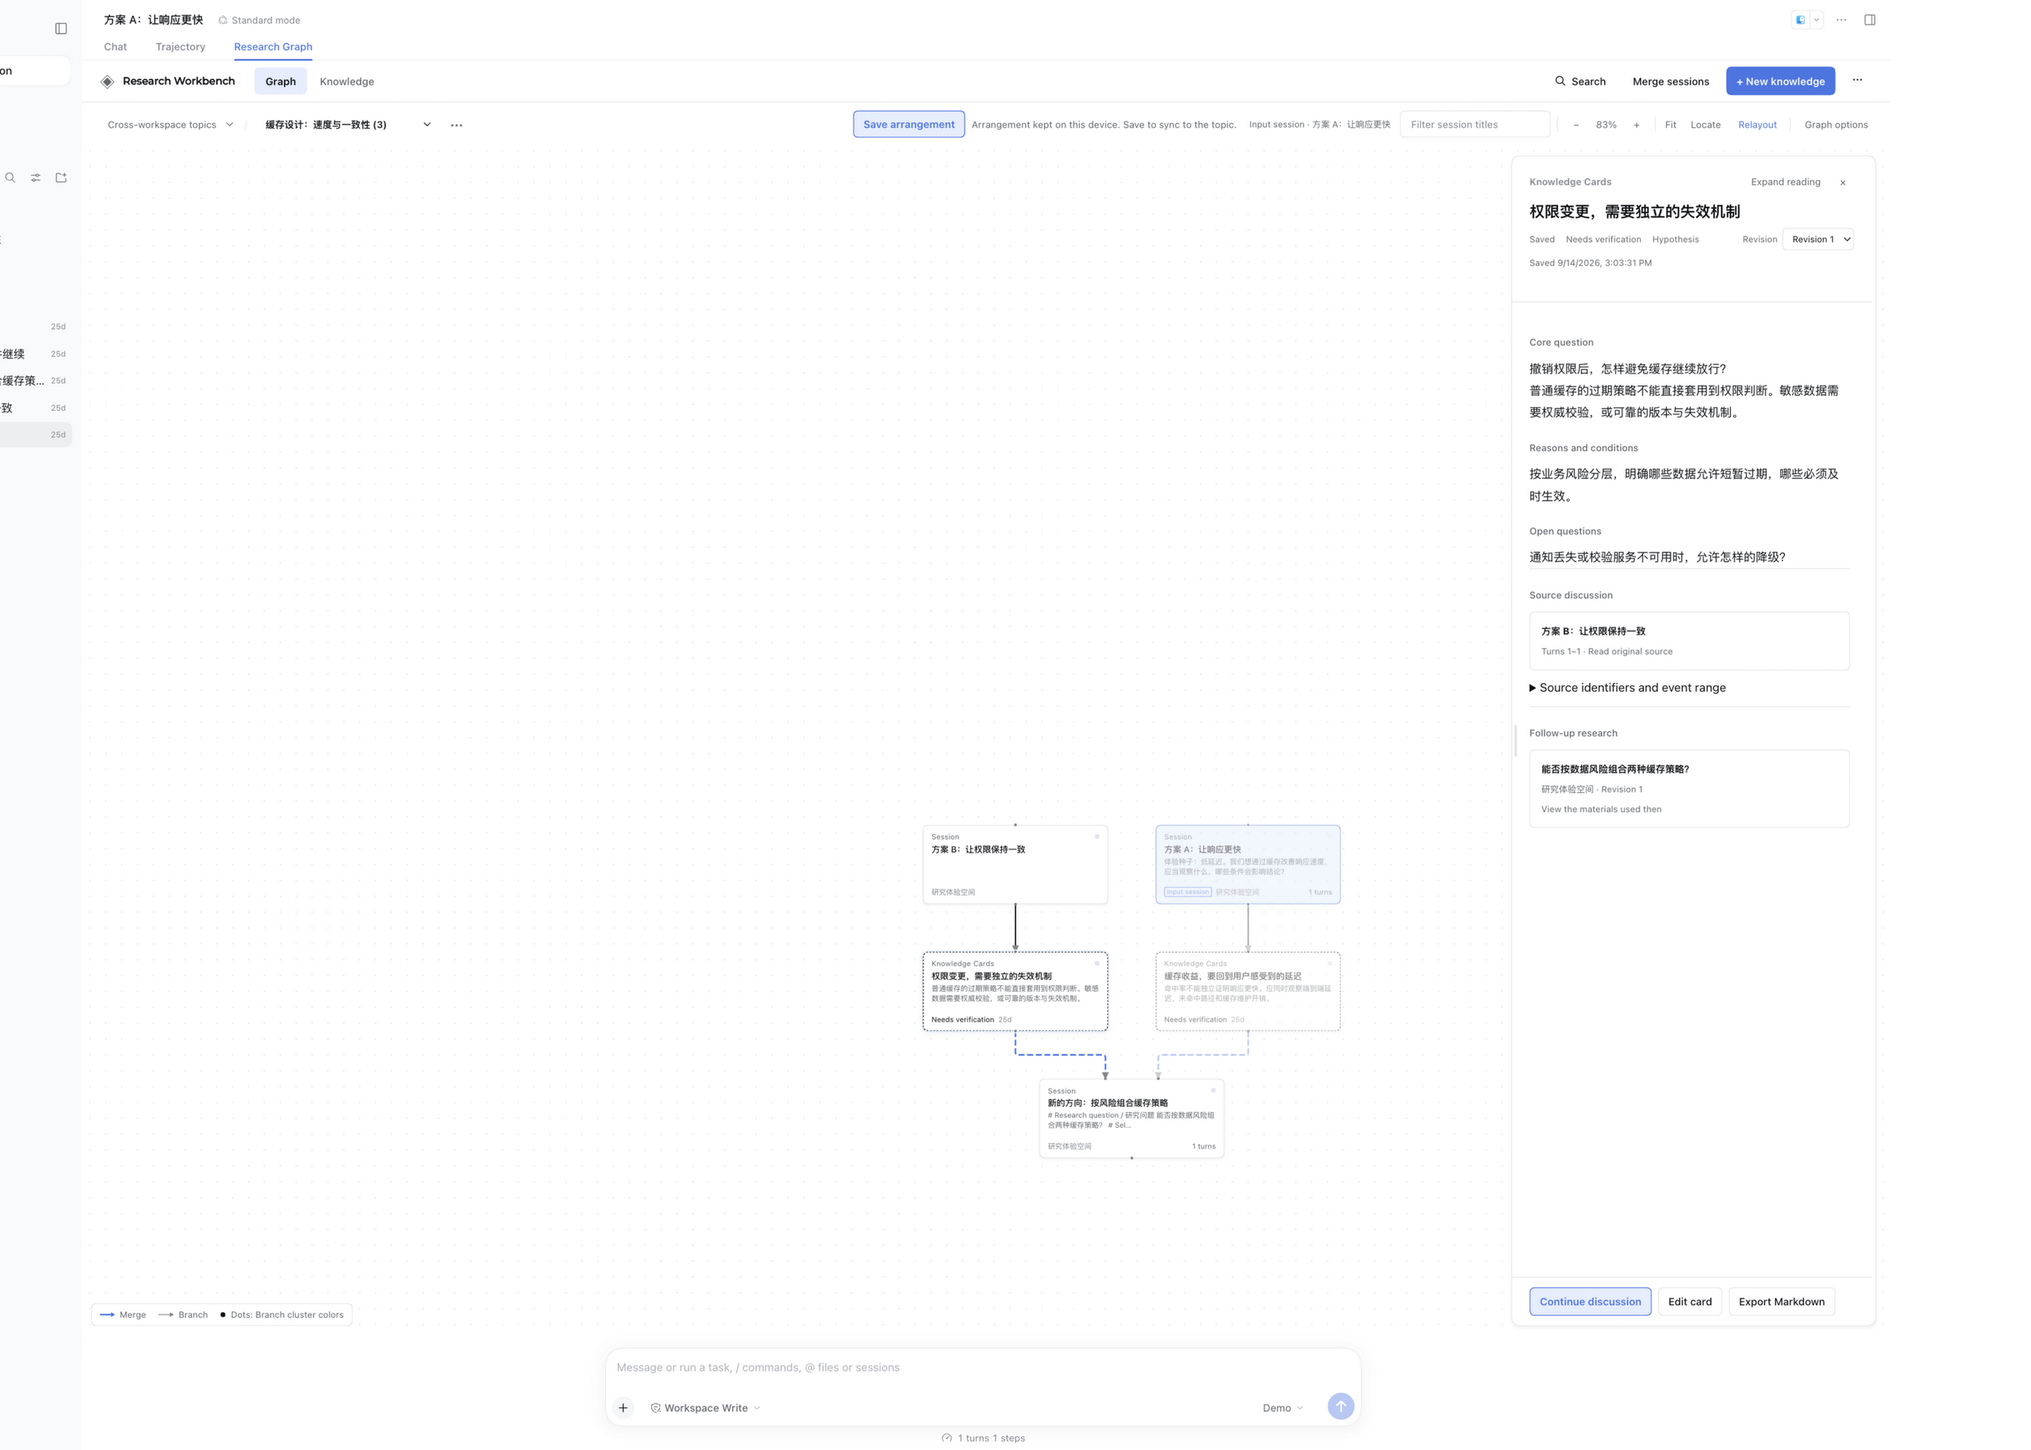
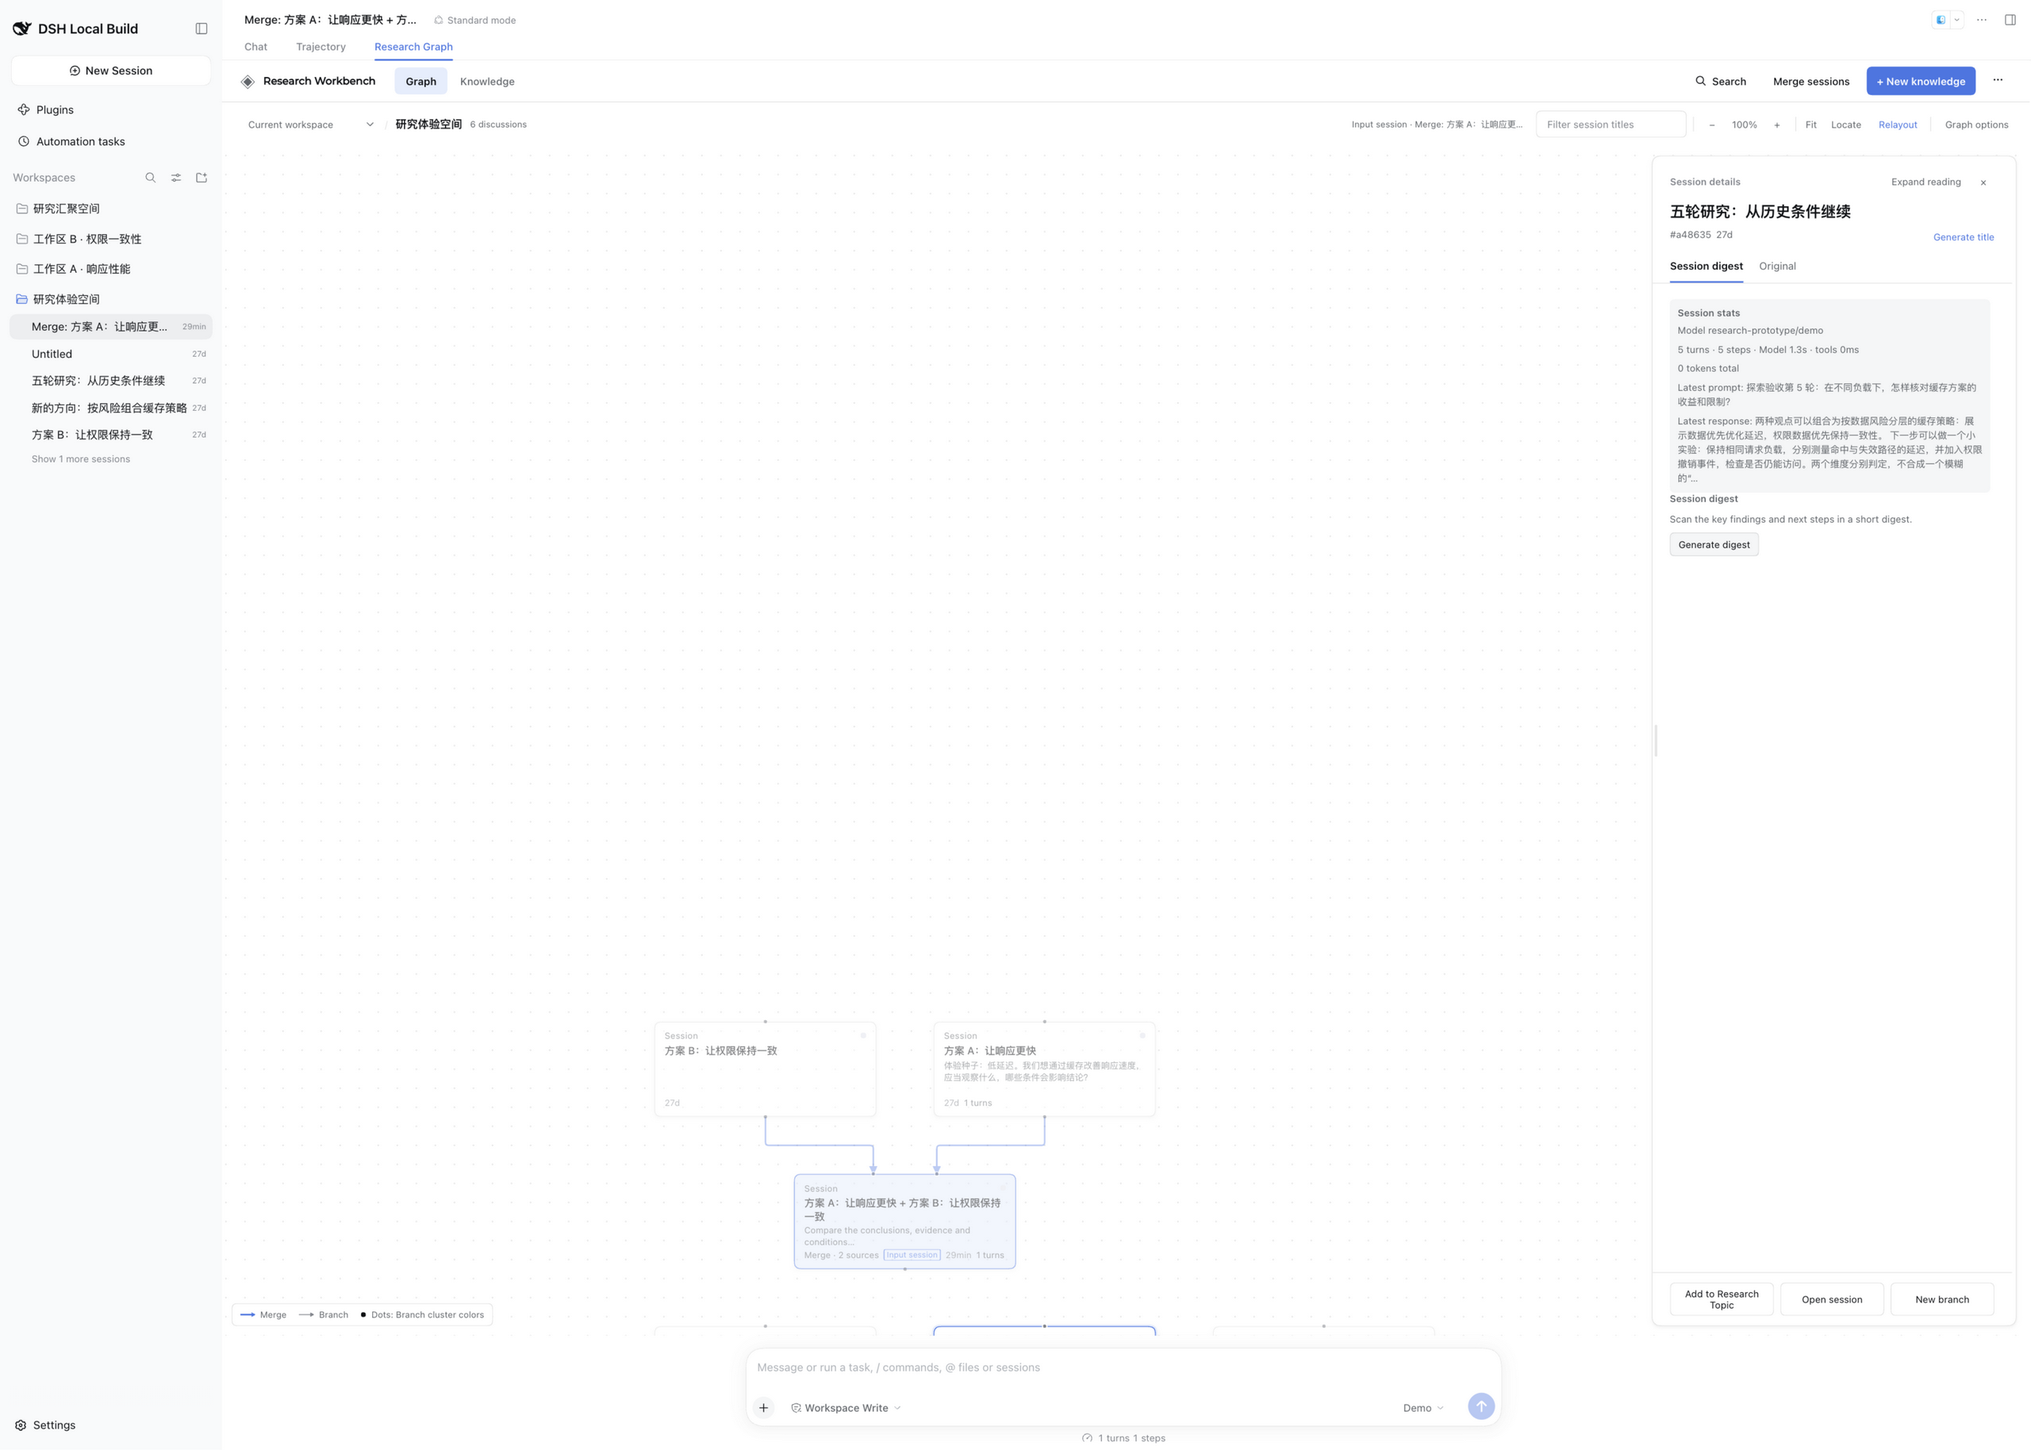
docs: prepare the 0.2.1-alpha.2.1 release notes and screenshot

diff --git a/docs/user-guide.md b/docs/user-guide.md
@@ -18,7 +18,7 @@ Detailed installation, research workflows, troubleshooting, and limits for DSH R
 Requires **DeepSeek Harness 0.2.1-alpha.2**, Node.js `^22.19.0 || >=24.0.0`, and `pnpm` on your `PATH`. Research Graph runs as a plugin inside DSH Web; check [Compatibility](#compatibility) before installing on another Host version. These commands assume `dsh` is on your `PATH`; see [Install](#install) for `npx` and source-checkout commands. Stop any running `dsh web` before installing.
 
 ```sh
-dsh plugin --profile web add @benz-ai-x/dsh-research-graph@0.2.1-alpha.2
+dsh plugin --profile web add @benz-ai-x/dsh-research-graph@0.2.1-alpha.2.1
 dsh web
 ```
 
@@ -28,7 +28,7 @@ Open the one-time authenticated URL printed by the command; do not share its tok
 2. Select a node, read **Original**, and choose **Save as knowledge** on a completed turn.
 3. Open the saved card in **Knowledge**, inspect its sources, and choose **Continue discussion** to preview the materials for another question.
 
-Current plugin **0.2.1-alpha.2** uses npm tag `next`; the pinned command avoids installing an incompatible older package. See [Install and upgrade](#install) for local archives and migration from the previous package name.
+Current plugin **0.2.1-alpha.2.1** uses npm tag `next`; the pinned command avoids installing an incompatible older package. See [Install and upgrade](#install) for local archives and migration from the previous package name.
 
 ## Research workflow
 
@@ -59,9 +59,9 @@ Source discovery and tool execution come from your selected DSH environment. Res
 
 | Package release | DeepSeek Harness | Node.js | Verification |
 |---|---|---|---|
-| `@benz-ai-x/dsh-research-graph@0.2.1-alpha.2` | `0.2.1-alpha.2` | `^22.19.0 \|\| >=24.0.0` | Real Host/Client types, integration tests and packed-profile runtime acceptance |
+| `@benz-ai-x/dsh-research-graph@0.2.1-alpha.2.1` | `0.2.1-alpha.2` | `^22.19.0 \|\| >=24.0.0` | Real Host/Client types, integration tests and packed-profile runtime acceptance |
 
-Current prerelease **0.2.1-alpha.2** targets **DSH 0.2.1-alpha.2**: a new DSH version, so per the release policy the plugin takes the full target version and every pinned `@deepseek-ai/dsh-*` dependency moves to `0.2.1-alpha.2`. This is a compatibility release: delegated tasks recorded as external executions (a new upstream concept with no local child Session) now report their native address as unavailable instead of passing an invalid open address, and a projection-read state addition (`migration-required`) is absorbed by the existing readiness guard. No research-data model, persistence schema, canvas, or Host service behavior changed. See the [release acceptance record](reviews/release-0.2.1-alpha.2.md) for official-package verification and known limitations.
+Current prerelease **0.2.1-alpha.2.1** targets **DSH 0.2.1-alpha.2**: a same-line revision, so the plugin version appends one revision digit and every pinned `@deepseek-ai/dsh-*` dependency stays at `0.2.1-alpha.2`. This is a feature-and-fix release: Session Merge can now choose its model from the Host catalog (workbench dialog and canvas quick entry, defaulting to the Host default route), and a regression where a browser-initiated merge failed at target renaming on DSH 0.2.x — leaving the created session without its instruction — is fixed by renaming through the session Remote. No research-data model, persistence schema, canvas geometry, or Host service behavior changed. See the [release acceptance record](reviews/release-0.2.1-alpha.2.1.md) for official-package verification and known limitations.
 
 In the DSH-aligned release line, the first plugin adaptation uses the full target DSH version. Further plugin releases for the same DSH prerelease append one positive revision number: plugin `0.1.5-rc.2.1` targets DSH `0.1.5-rc.2`, followed by plugin `0.1.5-rc.2.2`. Direct DSH dependencies retain the target DSH version. The previous package is `@benz-ai-x/dsh-client-ui-session-graph`; its tags and artifacts keep that name.
 
@@ -210,7 +210,7 @@ The [DSH plugin manager](https://github.com/deepseek-ai/deepseek-harness/blob/ds
 Install the published npm package into the `web` profile:
 
 ```sh
-dsh plugin --profile web add @benz-ai-x/dsh-research-graph@0.2.1-alpha.2
+dsh plugin --profile web add @benz-ai-x/dsh-research-graph@0.2.1-alpha.2.1
 ```
 
 Confirm that the resolved profile contains the bundle:
@@ -227,7 +227,7 @@ The product is now **DSH Research Graph · 研图**, and the repository is `benz
 
 ```sh
 dsh plugin --profile web remove @benz-ai-x/dsh-client-ui-session-graph
-dsh plugin --profile web add @benz-ai-x/dsh-research-graph@0.2.1-alpha.2
+dsh plugin --profile web add @benz-ai-x/dsh-research-graph@0.2.1-alpha.2.1
 dsh web
 ```
 
@@ -245,7 +245,7 @@ dsh plugin --profile web remove @benz-ai-x/dsh-research-graph
 
 Restart the target `web` profile after installation or removal. A running process does not watch its profile dependency list.
 
-Session, LLM, and browser runtime services remain owned by the selected dsh profile. The plugin declares its Typert protocol dependency explicitly, with the matching LLM as a peer dependency. The offline recovery command bundles its format catalog and libraries so it also works before the Host starts. All directly referenced `@deepseek-ai/dsh-*` packages are pinned to the target DSH version (`0.2.1-alpha.2` for plugin `0.2.1-alpha.2`).
+Session, LLM, and browser runtime services remain owned by the selected dsh profile. The plugin declares its Typert protocol dependency explicitly, with the matching LLM as a peer dependency. The offline recovery command bundles its format catalog and libraries so it also works before the Host starts. All directly referenced `@deepseek-ai/dsh-*` packages are pinned to the target DSH version (`0.2.1-alpha.2` for plugin `0.2.1-alpha.2.1`).
 
 ## Use the graph
 

diff --git a/docs/reviews/release-0.2.1-alpha.2.1.md b/docs/reviews/release-0.2.1-alpha.2.1.md
@@ -1,0 +1,33 @@
+# DSH Research Graph 0.2.1-alpha.2.1 release acceptance
+
+This is the first same-line revision of the DSH `0.2.1-alpha.2` adaptation: per the release policy the plugin version appends one revision digit (`0.2.1-alpha.2.1`) while every direct `@deepseek-ai/dsh-*` dependency stays pinned at `0.2.1-alpha.2`. It ships [Issue #64](https://github.com/benz-ai-x/dsh-research-graph/issues/64)'s two fixes, developed and accepted in [PR #65](https://github.com/benz-ai-x/dsh-research-graph/pull/65) (merged as `e936ab6`, tree identical to the accepted head `b291641`; all four checks green on the PR, first-round green):
+
+1. **Session Merge model selection.** The workbench dialog and the canvas quick-merge panel gain a shared Host-catalog picker. The default option follows the Host default model and issues no selection (behavior identical to previous releases); a chosen route is installed on the target through `remote.session.selectModel` before the merge instruction is queued and re-applied idempotently on retry (upstream `model/selection` is an append-only durable event). The workbench preview names the route this merge will use.
+2. **Merge target rename regression.** DSH 0.2.x clients no longer materialize a Client binding for `sessions.create()`, so a browser-initiated merge failed at `renameTarget` with `has no Client binding`: the target existed but was never named and never received its instruction — the direct cause of the user-visible "merged session never responds". Renaming now goes through `remote.session.rename`, which needs no binding lifecycle. The gap had gone unnoticed because harness view-test mounts always returned a binding and packed smoke exercised the fixture's Host-side rename path.
+
+Upstream merge `submit` eligibility checks only `turn/start` events and the plugin marker, so `model/selection` events on the target affect neither capture nor retry eligibility. Terminal model failures after capture remain natively rendered by upstream ui-chat (`turn-error`); no plugin-side monitoring was added. No research-data model, persistence schema, canvas geometry, or Host service behavior changed.
+
+## Compatibility and scope
+
+- Plugin: `@benz-ai-x/dsh-research-graph@0.2.1-alpha.2.1`; tag `v0.2.1-alpha.2.1`; npm dist-tag `next` (`latest` stays `0.1.5-rc.1`).
+- Target: official DSH `dsh-v0.2.1-alpha.2`, commit `d743267388513b2676c4cf5e2bda859586431e33` (unchanged from the 0.2.1-alpha.2 round; matching checkout builds verified then).
+- All direct DSH dependencies and the `@deepseek-ai/dsh-llm` peer stay `0.2.1-alpha.2`; `@deepseek-ai/cordis` stays `^4.0.2`; `@deepseek-ai/schemastery` stays `~3.18.5-alpha.1`.
+- Base: main `e936ab6` (merge of [PR #65](https://github.com/benz-ai-x/dsh-research-graph/pull/65)).
+- Standalone compiler face additions: `types/typert-session-remote.d.ts` (module-level `session` Remote namespace augmentation) and the `@deepseek-ai/dsh-api-session-controller/remote` adapter block in `types/deepseek-harness.d.ts`; the Harness compiler faces resolve the same calls against the checkout's generated declarations and all four faces match.
+- The README workbench screenshot was re-captured on this build (2560×1828, cross-workspace topic graph with a knowledge card reading panel) per release-line practice.
+
+## Validation
+
+- `pnpm run check`: version policy (same-line revision), strict types, build, **235 tests / 25 files** passed.
+- `DSH_HARNESS_ROOT` `pnpm check:harness` against `dsh-v0.2.1-alpha.2`: all four compiler faces and **352 tests / 23 files** passed (first-round green).
+- Real-browser isolated preview on the official `dsh-v0.2.1-alpha.2` Host: both merge entries show the model picker (default option naming `research-prototype/demo`), the preview names the chosen route, and a confirmed merge completes with the correctly named target and a model answer — the same flow failed at renaming before PR #65. Feature acceptance with screenshots: [merge model selection](merge-model-selection.md).
+- The candidate archive passed the isolated packed-profile acceptance (install, offline recovery, research operations, fixed model calls); the count and archive details are recorded below.
+- Candidate archive: **515321 bytes**, SHA-256 `110f6d2f…`, Build ID `local-2116f713` (fingerprints `package.json`/`tsdown.config.ts`/`src/`), version `0.2.1-alpha.2.1` on DSH `0.2.1-alpha.2`; the isolated profile exercised install, offline recovery before Host boot, historical Branch continuation, reviewed synthesis/extraction, acknowledged reuse, frozen export, read-only insights, native title rename, and removal, with **19 deterministic fixture model calls** (`durableMerge: true` among the checks).
+
+## Published artifact
+
+Publication is recorded here after the OIDC publish completes.
+
+## Acceptance boundary
+
+Merge model selection offers the Host catalog at merge time only; reasoning-effort choice is deferred (the `selectModel` call leaves room for it). Very large merged contexts remain subject to the Host reference budget and surface as retryable snapshot-submission failures; terminal model failures render through the Host's native turn-error node. Existing manual arrangements, Fit/Relayout/Reset semantics, and the 0.2.0-rc.2.1 geometry guarantees are unchanged. The two structured research-direction requirements in [Issue #32](https://github.com/benz-ai-x/dsh-research-graph/issues/32) remain deferred.

diff --git a/README.md b/README.md
@@ -43,7 +43,7 @@ flowchart LR
   </a>
 </p>
 
-Version 0.2.1-alpha.2 with demo data. Click the image for the full-resolution screenshot.
+Version 0.2.1-alpha.2.1 with demo data. Click the image for the full-resolution screenshot.
 
 <a id="features"></a>
 <a id="what-it-adds"></a>
@@ -66,7 +66,7 @@ Version 0.2.1-alpha.2 with demo data. Click the image for the full-resolution sc
 
 | Item | Details |
 | --- | --- |
-| Plugin release | [0.2.1-alpha.2](https://github.com/benz-ai-x/dsh-research-graph/releases/tag/v0.2.1-alpha.2), npm `next` |
+| Plugin release | [0.2.1-alpha.2.1](https://github.com/benz-ai-x/dsh-research-graph/releases/tag/v0.2.1-alpha.2.1), npm `next` |
 | Required Host | **DSH 0.2.1-alpha.2 · Web**, Node.js `^22.19.0 \|\| >=24.0.0` |
 | Data | Research records live on the DSH Host; working positions stay in the browser and Topic arrangements require explicit saving |
 | Model calls | Browsing, manual capture, and export make no model call; AI generation and new discussions use models on demand |
@@ -80,7 +80,7 @@ Version 0.2.1-alpha.2 with demo data. Click the image for the full-resolution sc
 Requires **DSH 0.2.1-alpha.2**, with both `dsh` and `pnpm` on your `PATH`. Stop any running `dsh web`, then run:
 
 ```sh
-dsh plugin --profile web add @benz-ai-x/dsh-research-graph@0.2.1-alpha.2
+dsh plugin --profile web add @benz-ai-x/dsh-research-graph@0.2.1-alpha.2.1
 dsh web
 ```
 
@@ -94,7 +94,8 @@ Every npm release of the current package name, with its required DSH Host (taken
 
 | Plugin release | Required DSH | Notes |
 | --- | --- | --- |
-| `0.2.1-alpha.2` | `0.2.1-alpha.2` | Current release, npm `next` |
+| `0.2.1-alpha.2.1` | `0.2.1-alpha.2` | Current release (Merge model selection and rename fix), npm `next` |
+| `0.2.1-alpha.2` | `0.2.1-alpha.2` | |
 | `0.2.1-alpha.1` | `0.2.1-alpha.1` | |
 | `0.2.0-rc.2.1` | `0.2.0-rc.2` | Same-line revision (workbench design refresh) |
 | `0.2.0-rc.2` | `0.2.0-rc.2` | First release of that DSH line |
@@ -116,4 +117,4 @@ Releases up to `0.1.5-rc.1` were also published under the previous package name 
 
 ## Docs and support
 
-[User guide](docs/user-guide.md) · [Troubleshooting](docs/user-guide.md#troubleshooting) · [Development and release](docs/development.md) · [Release acceptance](docs/reviews/release-0.2.1-alpha.2.md) · [Report an issue](https://github.com/benz-ai-x/dsh-research-graph/issues)
+[User guide](docs/user-guide.md) · [Troubleshooting](docs/user-guide.md#troubleshooting) · [Development and release](docs/development.md) · [Release acceptance](docs/reviews/release-0.2.1-alpha.2.1.md) · [Report an issue](https://github.com/benz-ai-x/dsh-research-graph/issues)

diff --git a/README.zh.md b/README.zh.md
@@ -43,7 +43,7 @@ flowchart LR
   </a>
 </p>
 
-0.2.1-alpha.2 的真实界面（演示数据），点击图片查看高清原图。
+0.2.1-alpha.2.1 的真实界面（演示数据），点击图片查看高清原图。
 
 <a id="核心能力"></a>
 
@@ -65,7 +65,7 @@ flowchart LR
 
 | 项目 | 说明 |
 | --- | --- |
-| 当前插件 | [0.2.1-alpha.2](https://github.com/benz-ai-x/dsh-research-graph/releases/tag/v0.2.1-alpha.2)，npm `next` |
+| 当前插件 | [0.2.1-alpha.2.1](https://github.com/benz-ai-x/dsh-research-graph/releases/tag/v0.2.1-alpha.2.1)，npm `next` |
 | 适配宿主 | **DSH 0.2.1-alpha.2 · Web**，Node.js `^22.19.0 \|\| >=24.0.0` |
 | 数据保存 | 研究数据保存在 DSH Host；工作位置保存在浏览器，主题排列需显式保存 |
 | 模型调用 | 浏览、手工留卡、导出不调用模型；AI 生成与新讨论按需调用 |
@@ -79,7 +79,7 @@ flowchart LR
 需要 **DSH 0.2.1-alpha.2**，并确保 `dsh`、`pnpm` 均在 `PATH` 中。如有正在运行的 `dsh web`，先停止，再执行：
 
 ```sh
-dsh plugin --profile web add @benz-ai-x/dsh-research-graph@0.2.1-alpha.2
+dsh plugin --profile web add @benz-ai-x/dsh-research-graph@0.2.1-alpha.2.1
 dsh web
 ```
 
@@ -93,7 +93,8 @@ dsh web
 
 | 插件版本 | 要求的 DSH | 备注 |
 | --- | --- | --- |
-| `0.2.1-alpha.2` | `0.2.1-alpha.2` | 当前版本，npm `next` |
+| `0.2.1-alpha.2.1` | `0.2.1-alpha.2` | 当前版本（汇聚模型选择与改名修复），npm `next` |
+| `0.2.1-alpha.2` | `0.2.1-alpha.2` | |
 | `0.2.1-alpha.1` | `0.2.1-alpha.1` | |
 | `0.2.0-rc.2.1` | `0.2.0-rc.2` | 同线修订（工作台设计刷新） |
 | `0.2.0-rc.2` | `0.2.0-rc.2` | 该 DSH 线首个版本 |
@@ -115,4 +116,4 @@ dsh web
 
 ## 文档与支持
 
-[使用指南](docs/user-guide.zh.md) · [故障排查](docs/user-guide.zh.md#故障排查) · [开发与发布](docs/development.zh.md) · [发布验收](docs/reviews/release-0.2.1-alpha.2.md) · [问题反馈](https://github.com/benz-ai-x/dsh-research-graph/issues)
+[使用指南](docs/user-guide.zh.md) · [故障排查](docs/user-guide.zh.md#故障排查) · [开发与发布](docs/development.zh.md) · [发布验收](docs/reviews/release-0.2.1-alpha.2.1.md) · [问题反馈](https://github.com/benz-ai-x/dsh-research-graph/issues)
